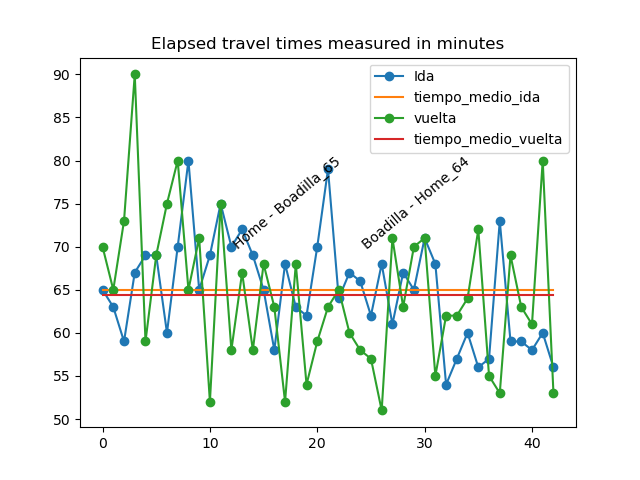
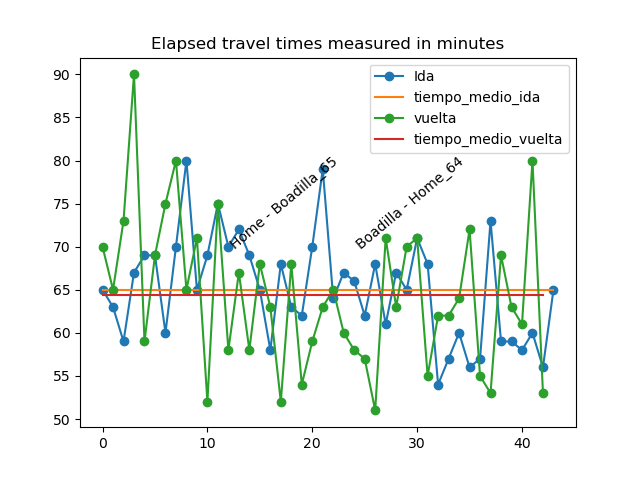
add new records

diff --git a/analytics/analytics.py b/analytics/analytics.py
@@ -21,6 +21,7 @@ df.to_csv(output_file_path, sep="|")
 import matplotlib.pyplot as plt
 
 q = 12
+df = df.loc[df["means_of_transport"] != "Coche", :]
 
 for direction in df["direction"].unique().tolist():
     print(" DIRECTION ", direction)
